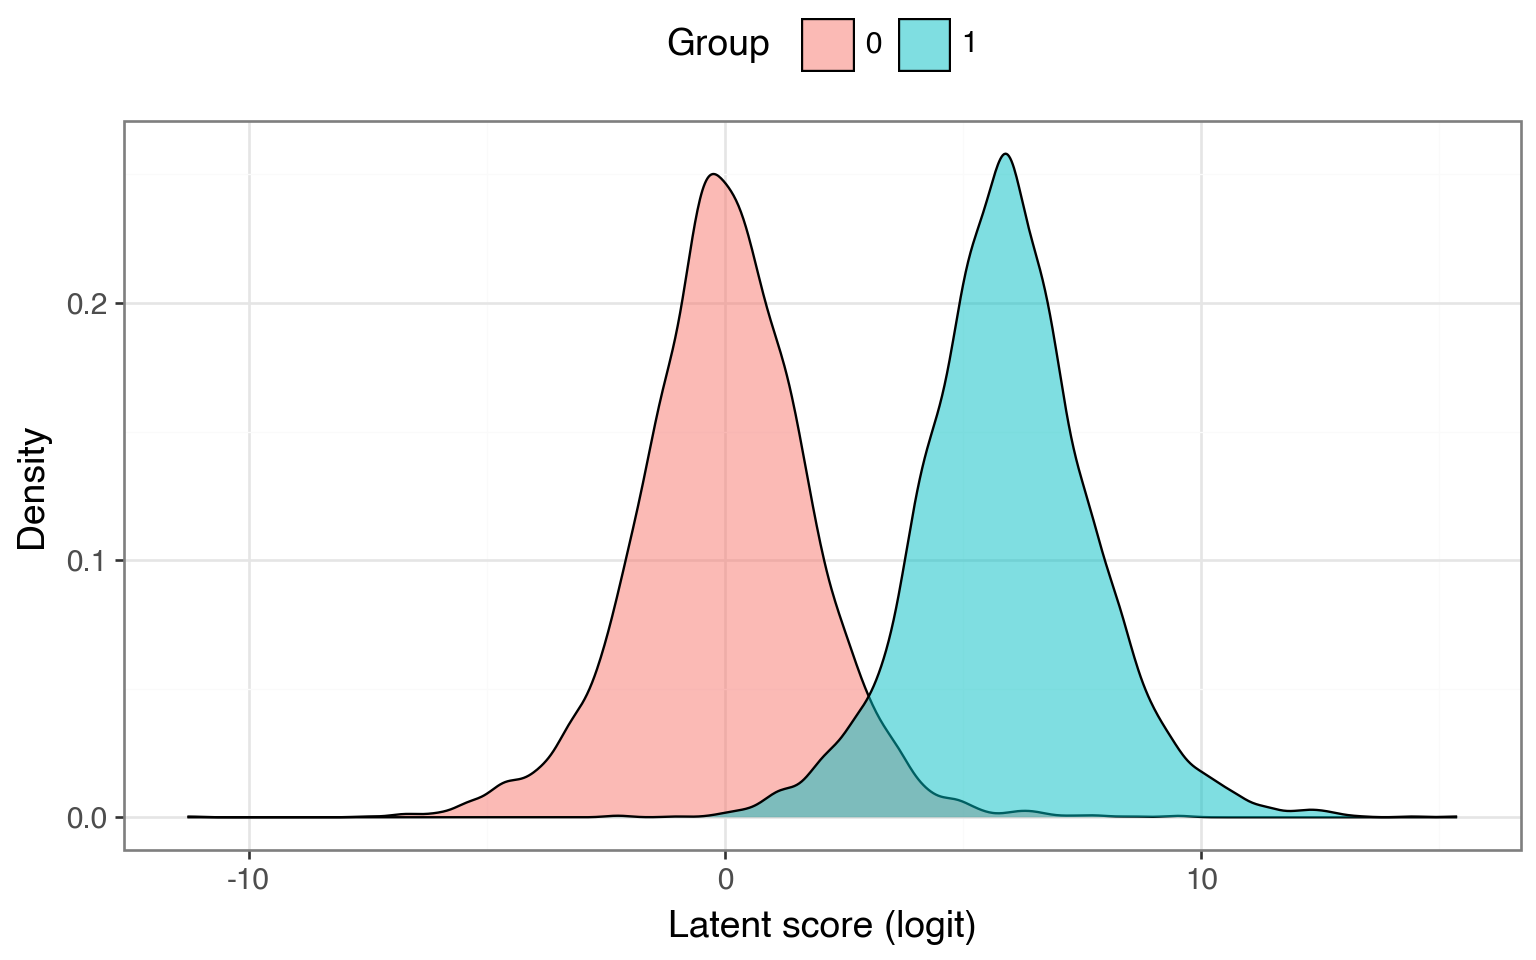
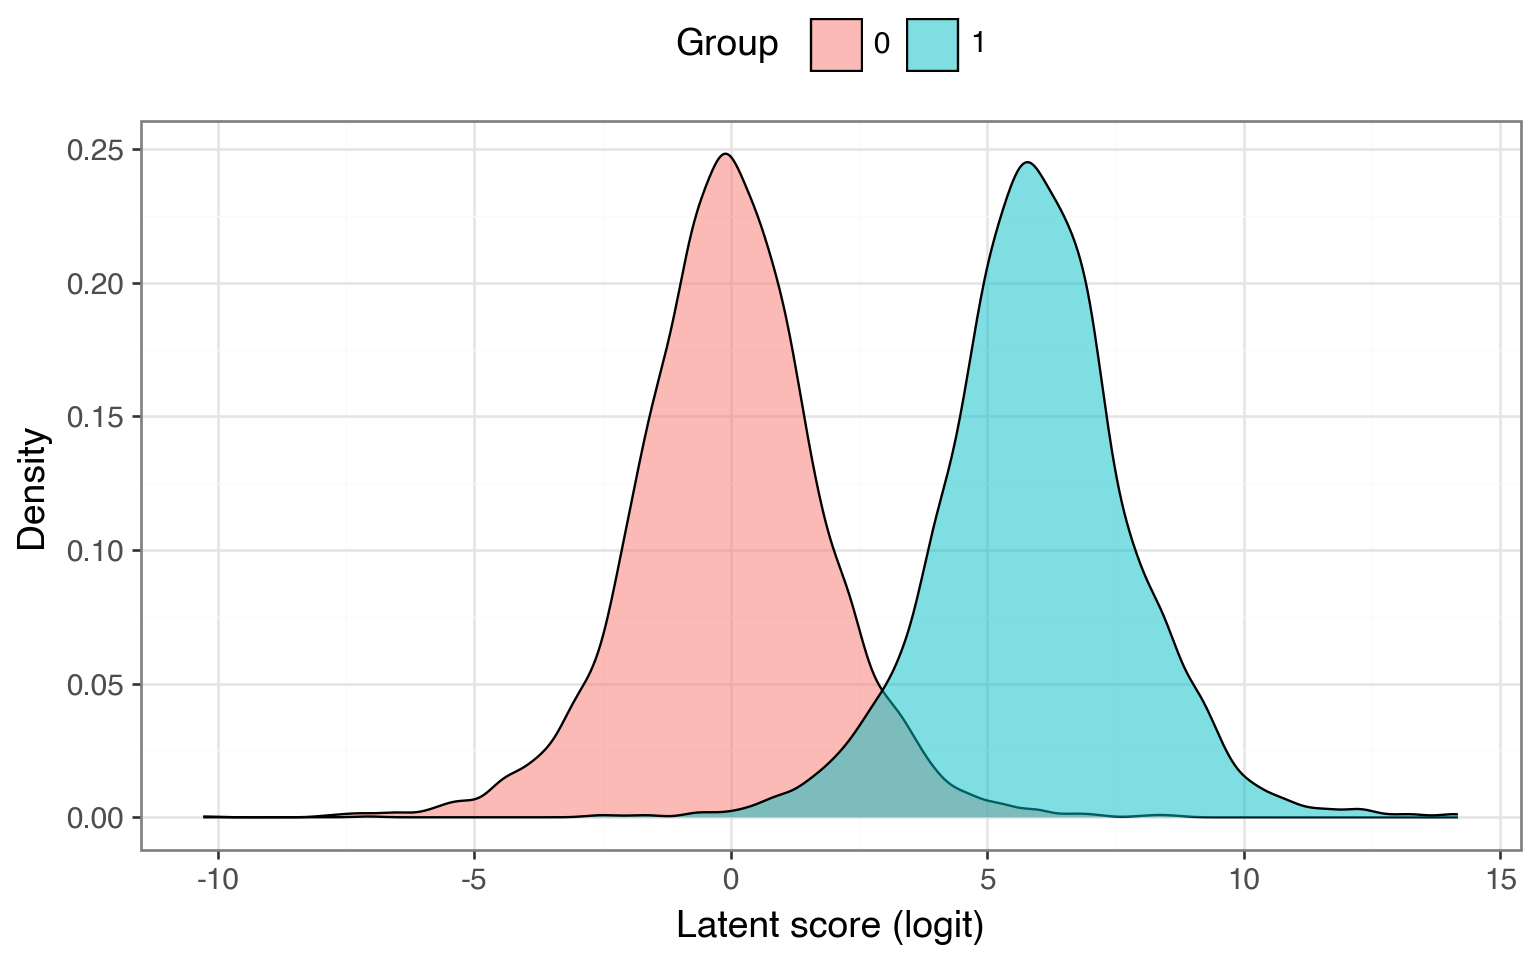
try again...

diff --git a/docs/posts/2026-03-31-recall-precision-tradeoff/index.html b/docs/posts/2026-03-31-recall-precision-tradeoff/index.html
@@ -229,7 +229,7 @@ window.Quarto = {
 
 <section id="takeaway" class="level1">
 <h1>Takeaway</h1>
-<p><strong>The base rate of the positive class puts a ceiling on what precision is achievable, regardless of how good your model is. If you don’t understand your base rates, you don’t understand what precision is even feasible.</strong></p>
+<p><strong>In classification tasks, the base rate of the positive class (how rare the thing you’re detecting is) puts a ceiling on your model’s <em>precision</em>, or how often its flags are actually correct. When the base rate is low enough, even a strong model will flood you with false positives. If you don’t understand your base rate, you don’t understand what precision is even feasible.</strong></p>
 </section>
 <section id="introduction" class="level1">
 <h1>Introduction</h1>
@@ -299,7 +299,7 @@ p(y = 1 | \hat{y} = 1) &amp;= \frac{%
 \]</span></p>
 <p>and plug in the numbers from our table. But we can’t actually compute precision until we’ve specified the <em>prevalence</em> of the positive and negative classes — that’s <span class="math inline">\(p(y=1)\)</span> and <span class="math inline">\(p(y=0)\)</span>. We know from existing data that the prevalence of fraudulent transactions is less than 1%. Let’s round that up to 1% so that <span class="math inline">\(p(y=1) = 0.01\)</span> and <span class="math inline">\(p(y=0) = 0.99\)</span>.</p>
 <p>Now we can finally compute precision for our seemingly strong model</p>
-<div id="df167e89" class="cell" data-execution_count="1">
+<div id="1cdca16a" class="cell" data-execution_count="1">
 <div class="code-copy-outer-scaffold"><div class="sourceCode cell-code" id="cb1"><pre class="sourceCode python code-with-copy"><code class="sourceCode python"><span id="cb1-1"><a href="#cb1-1" aria-hidden="true" tabindex="-1"></a>tpr <span class="op">=</span> <span class="fl">0.95</span></span>
 <span id="cb1-2"><a href="#cb1-2" aria-hidden="true" tabindex="-1"></a>fpr <span class="op">=</span> <span class="fl">0.05</span></span>
 <span id="cb1-3"><a href="#cb1-3" aria-hidden="true" tabindex="-1"></a></span>
@@ -317,7 +317,7 @@ p(y = 1 | \hat{y} = 1) &amp;= \frac{%
 <h2 class="anchored" data-anchor-id="sweeping-through-different-rates">Sweeping through different rates</h2>
 <p>Okay, so we’ve seen just how bad precision can get with a low base rate and a model that otherwise looks strong. Let’s build some intuition for what precision looks like across different combinations of TPR, FPR, and prevalence. You’d expect that increasing TPR or prevalence, or <em>decreasing</em> FPR, should improve precision — but by how much?</p>
 <p>To find out, we’ll apply the same Bayes’ theorem calculation to a grid of these rates. In the plot below, each panel fixes the FPR; the colored lines show how precision varies with TPR at different prevalences.</p>
-<div id="7dc52d12" class="cell" data-execution_count="2">
+<div id="600adae7" class="cell" data-execution_count="2">
 <details class="code-fold">
 <summary>Code</summary>
 <div class="code-copy-outer-scaffold"><div class="sourceCode cell-code" id="cb3"><pre class="sourceCode python code-with-copy"><code class="sourceCode python"><span id="cb3-1"><a href="#cb3-1" aria-hidden="true" tabindex="-1"></a><span class="im">import</span> numpy <span class="im">as</span> np</span>
@@ -397,7 +397,7 @@ p(y = 1 | \hat{y} = 1) &amp;= \frac{%
 <section id="the-bilogistic-model" class="level2">
 <h2 class="anchored" data-anchor-id="the-bilogistic-model">The bilogistic model</h2>
 <p>Here’s what this model looks like with an arbitrary separation of <span class="math inline">\(\mu = 5\)</span>. Any vertical line we draw becomes a decision threshold <span class="math inline">\(t\)</span>. Everything to the right gets classified as positive and everything to the left gets classified as negative. Sliding <span class="math inline">\(t\)</span> left catches more true positives but also more false positives; sliding <span class="math inline">\(t\)</span> right does the opposite.</p>
-<div id="17f04fb5" class="cell" data-execution_count="3">
+<div id="e772dcac" class="cell" data-execution_count="3">
 <details class="code-fold">
 <summary>Code</summary>
 <div class="code-copy-outer-scaffold"><div class="sourceCode cell-code" id="cb4"><pre class="sourceCode python code-with-copy"><code class="sourceCode python"><span id="cb4-1"><a href="#cb4-1" aria-hidden="true" tabindex="-1"></a><span class="co"># Show the general idea with an arbitrary mu</span></span>
@@ -447,7 +447,7 @@ p(y = 1 | \hat{y} = 1) &amp;= \frac{%
 <p>Because TPR, FPR, and precision are all determined by where we place that threshold, we can sweep <span class="math inline">\(t\)</span> across the full range and trace out the complete trade-off.</p>
 <p>Now let’s calibrate <span class="math inline">\(\mu\)</span> so that there exists a threshold where TPR = 0.95 and TNR = 0.95 simultaneously — matching the model from the previous section. Once calibrated, we can see what happens at every operating point, not just the one we started with.</p>
 <p>One thing to keep in mind: a model that can simultaneously achieve 0.95 TPR and 0.05 FPR is very strong. In practice, most classifiers won’t reach that level of separation - so the curves that follow should be treated as optimistic upper bounds on what precision is achievable. The real-world picture is often messier.</p>
-<div id="e3d44ca4" class="cell" data-execution_count="4">
+<div id="b722011c" class="cell" data-execution_count="4">
 <div class="code-copy-outer-scaffold"><div class="sourceCode cell-code" id="cb5"><pre class="sourceCode python code-with-copy"><code class="sourceCode python"><span id="cb5-1"><a href="#cb5-1" aria-hidden="true" tabindex="-1"></a><span class="kw">def</span> get_loc_p(tnr: <span class="bu">float</span>, tpr: <span class="bu">float</span>) <span class="op">-&gt;</span> <span class="bu">float</span>:</span>
 <span id="cb5-2"><a href="#cb5-2" aria-hidden="true" tabindex="-1"></a>  <span class="co">"""Find the location parameter mu for the positive class such that a single threshold t</span></span>
 <span id="cb5-3"><a href="#cb5-3" aria-hidden="true" tabindex="-1"></a><span class="co">  simultaneously satisfies both TNR and TPR. The threshold is fixed by the negative class:</span></span>
@@ -486,7 +486,7 @@ p(y = 1 | \hat{y} = 1) &amp;= \frac{%
 </div>
 </div>
 <p>Here’s our calibrated model — the distributions are slightly further apart than in the demo above, reflecting the strong 0.95/0.95 performance:</p>
-<div id="fd511988" class="cell" data-execution_count="5">
+<div id="1b7e57bb" class="cell" data-execution_count="5">
 <details class="code-fold">
 <summary>Code</summary>
 <div class="code-copy-outer-scaffold"><div class="sourceCode cell-code" id="cb7"><pre class="sourceCode python code-with-copy"><code class="sourceCode python"><span id="cb7-1"><a href="#cb7-1" aria-hidden="true" tabindex="-1"></a>(</span>
@@ -509,7 +509,7 @@ p(y = 1 | \hat{y} = 1) &amp;= \frac{%
 <section id="roc-and-precision-recall-curves" class="level2">
 <h2 class="anchored" data-anchor-id="roc-and-precision-recall-curves">ROC and Precision-Recall curves</h2>
 <p>Let’s now sweep the threshold across the full range and see what the full trade-off looks like.</p>
-<div id="dcf1c25d" class="cell" data-execution_count="6">
+<div id="1fb9ffbe" class="cell" data-execution_count="6">
 <div class="code-copy-outer-scaffold"><div class="sourceCode cell-code" id="cb8"><pre class="sourceCode python code-with-copy"><code class="sourceCode python"><span id="cb8-1"><a href="#cb8-1" aria-hidden="true" tabindex="-1"></a>t <span class="op">=</span> np.arange(<span class="op">-</span><span class="dv">10</span>, <span class="dv">14</span>, <span class="fl">0.01</span>)</span>
 <span id="cb8-2"><a href="#cb8-2" aria-hidden="true" tabindex="-1"></a></span>
 <span id="cb8-3"><a href="#cb8-3" aria-hidden="true" tabindex="-1"></a><span class="co"># TPR and FPR are the RHS of the curve for the pos &amp; neg distributions</span></span>
@@ -517,8 +517,8 @@ p(y = 1 | \hat{y} = 1) &amp;= \frac{%
 <span id="cb8-5"><a href="#cb8-5" aria-hidden="true" tabindex="-1"></a>fpr <span class="op">=</span> <span class="dv">1</span> <span class="op">-</span> logistic.cdf(t, loc<span class="op">=</span>loc_n)</span></code></pre></div><button title="Copy to Clipboard" class="code-copy-button"><i class="bi"></i></button></div>
 </div>
 <p>You might be tempted to look at the ROC curve first — and it looks excellent. It hugs the top-left corner, AUROC near 1.0. But here’s the thing: the ROC curve is completely invariant to prevalence. TPR and FPR are both conditioned on the true class, so the base rate never enters the picture. The ROC curve looks identical whether 1% or 50% of transactions are fraudulent. That’s useful for some purposes, but it can’t tell you how many of your flags will be false positives in practice.</p>
-<p>For that, we need the Precision-Recall curve. We’ll compute both curves from the same threshold sweep and show them side by side — ROC on the left, PR at different prevalences on the right.</p>
-<div id="2bd913e7" class="cell" data-execution_count="7">
+<p>For that, we need the Precision-Recall curve (where recall is just another name for TPR). We’ll compute both curves from the same threshold sweep and show them side by side — ROC on the left, PR at different prevalences on the right.</p>
+<div id="99445f0d" class="cell" data-execution_count="7">
 <details class="code-fold">
 <summary>Code</summary>
 <div class="code-copy-outer-scaffold"><div class="sourceCode cell-code" id="cb9"><pre class="sourceCode python code-with-copy"><code class="sourceCode python"><span id="cb9-1"><a href="#cb9-1" aria-hidden="true" tabindex="-1"></a><span class="im">from</span> plotnine <span class="im">import</span> facet_grid</span>
@@ -600,7 +600,7 @@ y_i &amp;= \begin{cases}
 \]</span></p>
 <p>The latent score <span class="math inline">\(y^*\)</span> is exactly the logit-scale quantity from our bilogistic model. For the negative class (<span class="math inline">\(X\beta = 0\)</span>), latent scores follow a Logistic<span class="math inline">\((0, 1)\)</span> distribution. For the positive class (<span class="math inline">\(X\beta = \mu\)</span>), they follow a Logistic<span class="math inline">\((\mu, 1)\)</span>. The threshold at 0 plays the role of our decision boundary. In other words, every time you fit a logistic regression, you’re implicitly working inside the bilogistic framework — and the base-rate ceiling on precision applies directly to your model’s predictions.</p>
 <p>Let’s verify this correspondence by simulating data from the latent variable model using the same separation <span class="math inline">\(\mu\)</span> we calibrated earlier, then fitting a logistic regression to recover <span class="math inline">\(\mu\)</span>.</p>
-<div id="db152cfe" class="cell" data-execution_count="8">
+<div id="1bc2f44d" class="cell" data-execution_count="8">
 <div class="code-copy-outer-scaffold"><div class="sourceCode cell-code" id="cb10"><pre class="sourceCode python code-with-copy"><code class="sourceCode python"><span id="cb10-1"><a href="#cb10-1" aria-hidden="true" tabindex="-1"></a>n <span class="op">=</span> <span class="dv">10_000</span></span>
 <span id="cb10-2"><a href="#cb10-2" aria-hidden="true" tabindex="-1"></a>group <span class="op">=</span> np.repeat([<span class="dv">0</span>, <span class="dv">1</span>], n <span class="op">//</span> <span class="dv">2</span>)</span>
 <span id="cb10-3"><a href="#cb10-3" aria-hidden="true" tabindex="-1"></a>X <span class="op">=</span> np.column_stack([np.ones(n), group])</span>
@@ -615,7 +615,7 @@ y_i &amp;= \begin{cases}
 <span id="cb10-12"><a href="#cb10-12" aria-hidden="true" tabindex="-1"></a>})</span></code></pre></div><button title="Copy to Clipboard" class="code-copy-button"><i class="bi"></i></button></div>
 </div>
 <p>The density of the latent scores by group recovers the same two-distribution picture we saw earlier:</p>
-<div id="bf0e9b82" class="cell" data-execution_count="9">
+<div id="5596669d" class="cell" data-execution_count="9">
 <details class="code-fold">
 <summary>Code</summary>
 <div class="code-copy-outer-scaffold"><div class="sourceCode cell-code" id="cb11"><pre class="sourceCode python code-with-copy"><code class="sourceCode python"><span id="cb11-1"><a href="#cb11-1" aria-hidden="true" tabindex="-1"></a>(</span>
@@ -635,7 +635,7 @@ y_i &amp;= \begin{cases}
 </div>
 </div>
 <p>Now let’s threshold <span class="math inline">\(y^*\)</span> at 0 to get the observed binary outcome and fit a logistic regression. If the models correspond, the estimated group coefficient should land close to <span class="math inline">\(\mu \approx\)</span> 5.89.</p>
-<div id="9927bf46" class="cell" data-execution_count="10">
+<div id="7bab1aed" class="cell" data-execution_count="10">
 <div class="code-copy-outer-scaffold"><div class="sourceCode cell-code" id="cb12"><pre class="sourceCode python code-with-copy"><code class="sourceCode python"><span id="cb12-1"><a href="#cb12-1" aria-hidden="true" tabindex="-1"></a><span class="im">import</span> statsmodels.api <span class="im">as</span> sm</span>
 <span id="cb12-2"><a href="#cb12-2" aria-hidden="true" tabindex="-1"></a></span>
 <span id="cb12-3"><a href="#cb12-3" aria-hidden="true" tabindex="-1"></a>yobs <span class="op">=</span> (ystar <span class="op">&gt;</span> <span class="dv">0</span>).astype(<span class="bu">int</span>)</span>
@@ -643,22 +643,22 @@ y_i &amp;= \begin{cases}
 <span id="cb12-5"><a href="#cb12-5" aria-hidden="true" tabindex="-1"></a><span class="bu">print</span>(model.summary())</span></code></pre></div><button title="Copy to Clipboard" class="code-copy-button"><i class="bi"></i></button></div>
 <div class="cell-output cell-output-stdout">
 <pre><code>Optimization terminated successfully.
-         Current function value: 0.350513
-         Iterations 11
+         Current function value: 0.357199
+         Iterations 10
                            Logit Regression Results                           
 ==============================================================================
 Dep. Variable:                      y   No. Observations:                10000
 Model:                          Logit   Df Residuals:                     9998
 Method:                           MLE   Df Model:                            1
-Date:                Mon, 06 Apr 2026   Pseudo R-squ.:                  0.3796
-Time:                        12:25:03   Log-Likelihood:                -3505.1
-converged:                       True   LL-Null:                       -5649.6
+Date:                Mon, 06 Apr 2026   Pseudo R-squ.:                  0.3744
+Time:                        14:54:44   Log-Likelihood:                -3572.0
+converged:                       True   LL-Null:                       -5709.5
 Covariance Type:            nonrobust   LLR p-value:                     0.000
 ==============================================================================
                  coef    std err          z      P&gt;|z|      [0.025      0.975]
 ------------------------------------------------------------------------------
-const         -0.0152      0.028     -0.537      0.591      -0.071       0.040
-x1             6.9220      0.448     15.439      0.000       6.043       7.801
+const         -0.0512      0.028     -1.810      0.070      -0.107       0.004
+x1             5.7926      0.252     22.987      0.000       5.299       6.287
 ==============================================================================</code></pre>
 </div>
 </div>

diff --git a/docs/posts.html b/docs/posts.html
@@ -205,7 +205,7 @@ window.Quarto = {
 
 <div class="quarto-listing quarto-listing-container-default" id="listing-listing">
 <div class="list quarto-listing-default">
-<div class="quarto-post image-right" data-index="0" data-listing-date-sort="1774940400000" data-listing-file-modified-sort="1775512009464" data-listing-date-modified-sort="NaN" data-listing-reading-time-sort="16" data-listing-word-count-sort="3141">
+<div class="quarto-post image-right" data-index="0" data-listing-date-sort="1774940400000" data-listing-file-modified-sort="1775512457574" data-listing-date-modified-sort="NaN" data-listing-reading-time-sort="16" data-listing-word-count-sort="3141">
 <div class="thumbnail"><a href="./posts/2026-03-31-recall-precision-tradeoff/index.html" class="no-external">
 
 <p class="card-img-top"><img loading='lazy' src="posts/2026-03-31-recall-precision-tradeoff/index_files/figure-html/cell-3-output-1.png"  class="thumbnail-image card-img"/></p>
